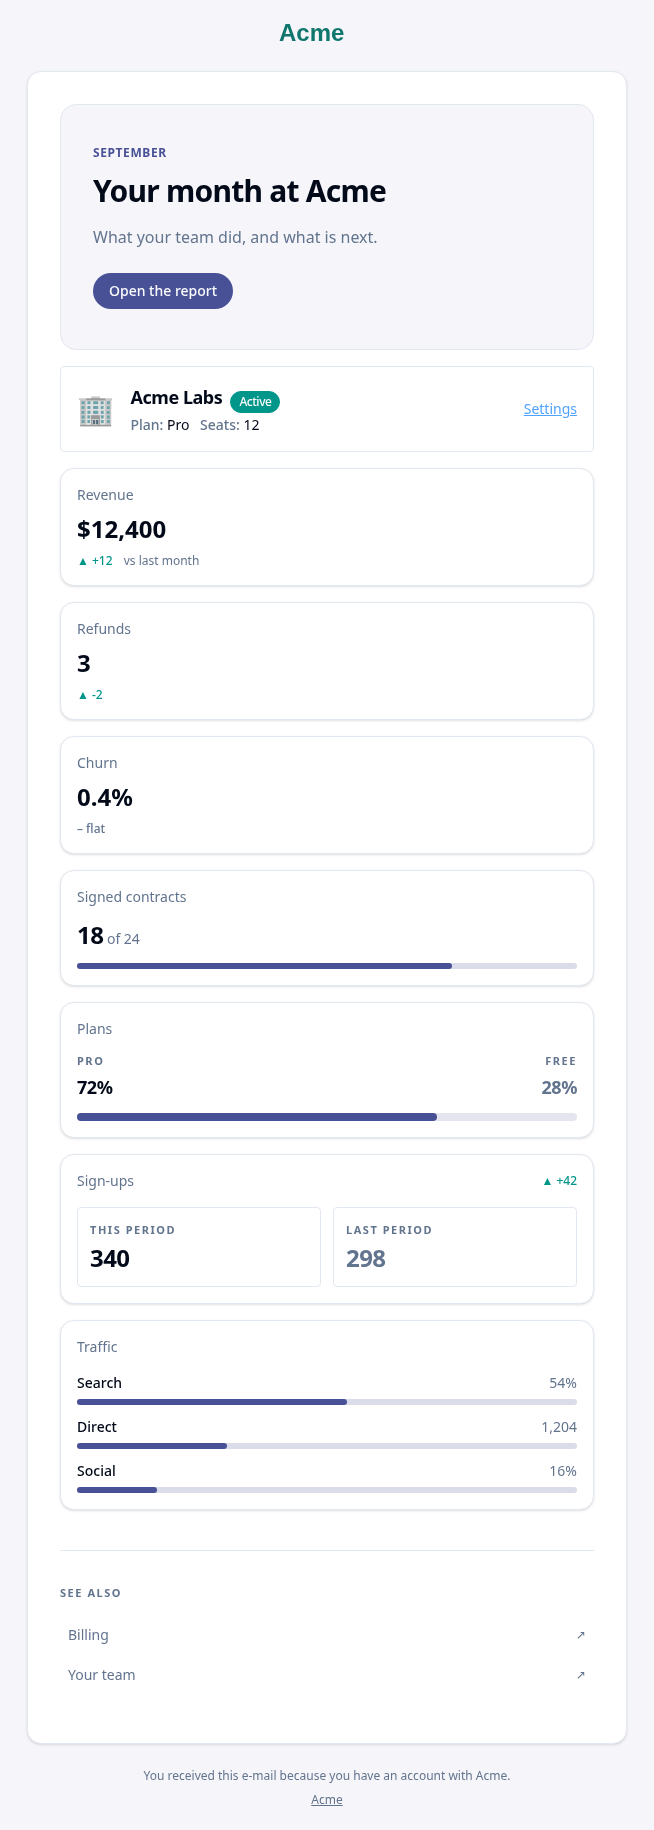
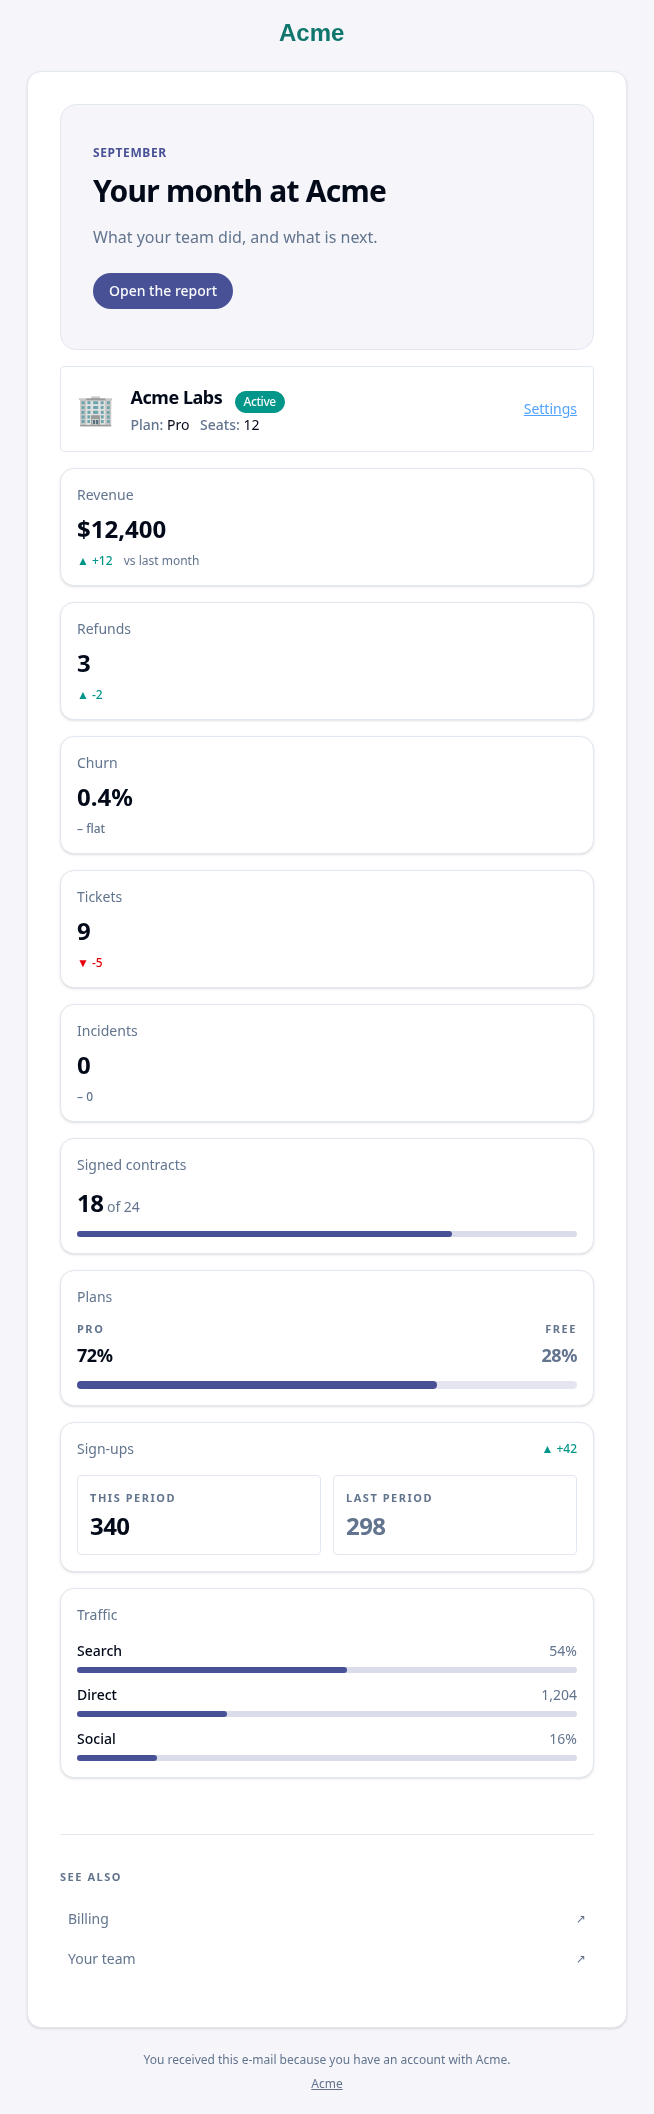
fix(mail-ui): Space an entity's title from its status, draw NxSeeAlso's line on a cell, and cover the falling and zero deltas
NxSeeAlso's line is a cell's top border and its space above padding, as
NxSeparator's, rather than a div's border and margin. The tone's arrow and
colour are a module constant. The colour guard reads every fixture e-mail.

diff --git a/packages/mail-ui/components/see-also.vue b/packages/mail-ui/components/see-also.vue
@@ -6,7 +6,9 @@ import { EYEBROW, type SeeAlsoItem, sharedMessage } from './ui';
 /**
  * material-vue's SeeAlso: a line, a small uppercase label, and links one per
  * row. Every link of an e-mail opens a browser, so each carries the arrow
- * material-vue gives an external one, as a character.
+ * material-vue gives an external one, as a character. The line is a cell's
+ * top border, and the space above it padding, which Outlook keeps and a
+ * margin not.
  */
 defineOptions({ inheritAttrs: false });
 
@@ -20,22 +22,32 @@ const heading = computed(
 const attrs = useAttrs();
 const classes = computed(() =>
 	twMerge(
-		'mb-4 mt-10 border-t [border-top-style:solid] border-border pt-8',
+		'mb-4 w-full',
 		attrs.class as string,
 	),
 );
 </script>
 
 <template>
-  <div v-if="items.length > 0" v-bind="{ ...attrs, class: undefined }" :class="classes">
-    <p :class="`${EYEBROW} mb-3`">{{ heading }}</p>
-    <table class="w-full" role="presentation" cellpadding="0" cellspacing="0">
-      <tr v-for="item in items" :key="item.id ?? item.href">
-        <td class="px-2 py-2.5">
-          <a :href="item.href" class="text-sm text-muted-foreground no-underline">{{ item.title }}</a>
-        </td>
-        <td class="w-1 px-2 text-right align-middle text-xs text-muted-foreground"><span aria-hidden="true"><span data-maizzle-html-only>&#8599;</span></span></td>
-      </tr>
-    </table>
-  </div>
+  <table v-if="items.length > 0" v-bind="{ ...attrs, class: undefined }" :class="classes" role="presentation" cellpadding="0" cellspacing="0">
+    <tr>
+      <td class="pt-10">
+        <table class="w-full" role="presentation" cellpadding="0" cellspacing="0">
+          <tr>
+            <td class="border-t [border-top-style:solid] border-border pt-8">
+              <p :class="`${EYEBROW} mb-3`">{{ heading }}</p>
+              <table class="w-full" role="presentation" cellpadding="0" cellspacing="0">
+                <tr v-for="item in items" :key="item.id ?? item.href">
+                  <td class="px-2 py-2.5">
+                    <a :href="item.href" class="text-sm text-muted-foreground no-underline">{{ item.title }}</a>
+                  </td>
+                  <td class="w-1 px-2 text-right align-middle text-xs text-muted-foreground"><span aria-hidden="true"><span data-maizzle-html-only>&#8599;</span></span></td>
+                </tr>
+              </table>
+            </td>
+          </tr>
+        </table>
+      </td>
+    </tr>
+  </table>
 </template>

diff --git a/packages/mail-ui/src/build.spec.ts b/packages/mail-ui/src/build.spec.ts
@@ -48,13 +48,24 @@ describe('a project built with the ui plugin', () => {
 	}, 120_000);
 
 	test("renders material-vue's colours as hex, with nothing a client must resolve", async () => {
-		const html = await read('dist/en/welcome.html');
-		expect(html).not.toContain('oklch(');
-		expect(html).not.toContain('var(--');
-		expect(html).not.toContain('color-mix(');
-		expect(styleOf(html, 'Open my account', 'a ')).toContain(
-			'background-color: #485096;',
-		);
+		for (const email of ['welcome', 'gallery', 'sequence', 'summary']) {
+			const html = await read(`dist/en/${email}.html`);
+			expect({ email, oklch: html.includes('oklch(') }).toEqual({
+				email,
+				oklch: false,
+			});
+			expect({ email, var: html.includes('var(--') }).toEqual({
+				email,
+				var: false,
+			});
+			expect({ email, mix: html.includes('color-mix(') }).toEqual({
+				email,
+				mix: false,
+			});
+		}
+		expect(
+			styleOf(await read('dist/en/welcome.html'), 'Open my account', 'a '),
+		).toContain('background-color: #485096;');
 	});
 
 	test('writes the types of brand for the editor, in .maizzle/ where the starter looks', async () => {
@@ -326,6 +337,16 @@ describe('a project built with the ui plugin', () => {
 		const text = await read('dist/en/summary.txt');
 		expect(text).toContain('Revenue $12,400 +12 vs last month Refunds 3 -2');
 		expect(text).not.toMatch(/[▲▼↗]/);
+	});
+
+	test('heads an e-mail with a hero, and an entity with its status and metadata', async () => {
+		const html = await read('dist/en/summary.html');
+		expect(html).toContain('text-transform: uppercase;">September</p>');
+		expect(html).toContain('>Your month at Acme</h1>');
+		expect(html).toContain('background-color: #f6f6fa;');
+		expect(await read('dist/en/summary.txt')).toContain(
+			'🏢 Acme Labs Active Plan: Pro Seats: 12 Settings',
+		);
 	});
 
 	test("writes a metric card's shared words in each locale", async () => {

diff --git a/packages/mail-ui/components/ui.ts b/packages/mail-ui/components/ui.ts
@@ -127,6 +127,13 @@ export function sharedMessage(
 /** Which way a figure moved, as material-vue's StatCard tones its delta. */
 export type DeltaTone = 'up' | 'down' | 'neutral';
 
+/** A tone's arrow and colour. */
+const DELTA_LOOK: Record<DeltaTone, { glyph: string; colour: string }> = {
+	up: { glyph: '\u25B2', colour: 'text-success' },
+	down: { glyph: '\u25BC', colour: 'text-error' },
+	neutral: { glyph: '\u2013', colour: 'text-muted-foreground' },
+};
+
 /**
  * A delta as material-vue's `formatStatDelta` writes it — `+12`, `-3`, `0` —
  * with its tone, a glyph for its arrow (an e-mail has no icon font), and its
@@ -144,12 +151,7 @@ export function deltaOf(
 				: delta < 0
 					? { label: `${delta}`, tone: tone ?? 'down' }
 					: { label: '0', tone: tone ?? 'neutral' };
-	const Look: Record<DeltaTone, { glyph: string; colour: string }> = {
-		up: { glyph: '\u25B2', colour: 'text-success' },
-		down: { glyph: '\u25BC', colour: 'text-error' },
-		neutral: { glyph: '\u2013', colour: 'text-muted-foreground' },
-	};
-	return { ...resolved, ...Look[resolved.tone] };
+	return { ...resolved, ...DELTA_LOOK[resolved.tone] };
 }
 
 /** material-vue's small uppercase label over a figure or a list. */

diff --git a/packages/mail-ui/components/entity-header.vue b/packages/mail-ui/components/entity-header.vue
@@ -35,7 +35,7 @@ const classes = computed(() =>
           <tr>
             <td v-if="slots.icon" class="w-1 whitespace-nowrap pr-4 align-middle text-3xl leading-none"><slot name="icon" /></td>
             <td class="align-middle">
-              <h2 class="m-0 text-lg font-semibold tracking-tight text-foreground">{{ title }}<span v-if="slots.status" class="pl-2 align-middle"><slot name="status" /></span></h2>
+              <h2 class="m-0 text-lg font-semibold tracking-tight text-foreground">{{ title }} <span v-if="slots.status" class="pl-2 align-middle"><slot name="status" /></span></h2>
               <NxSummaryData v-if="metadata.length > 0" inline class="mb-0 mt-0.5" :data="metadata" />
             </td>
             <td v-if="slots.actions" class="w-1 whitespace-nowrap pl-4 text-right align-middle"><slot name="actions" /></td>

diff --git a/packages/mail-ui/test/fixture/emails/summary.vue b/packages/mail-ui/test/fixture/emails/summary.vue
@@ -11,6 +11,8 @@
     <NxStatCard label="Revenue" value="$12,400" :delta="12" hint="vs last month" />
     <NxStatCard label="Refunds" value="3" :delta="-2" delta-tone="up" />
     <NxStatCard label="Churn" value="0.4%" delta="flat" />
+    <NxStatCard label="Tickets" value="9" :delta="-5" />
+    <NxStatCard label="Incidents" value="0" :delta="0" />
     <NxGoalCard label="Signed contracts" :value="18" :target="24" />
     <NxRatioCard label="Plans" :left="{ label: 'Pro', value: '72%' }" :right="{ label: 'Free', value: '28%' }" :percent="72" />
     <NxCompareCard label="Sign-ups" :current="{ value: '340' }" :previous="{ value: '298' }" :delta="42" />

diff --git a/packages/mail-ui/components/stat-card.vue b/packages/mail-ui/components/stat-card.vue
@@ -5,7 +5,8 @@ import { type DeltaTone, deltaOf } from './ui';
 /**
  * material-vue's StatCard: a label, a figure, and under it a delta and a
  * hint, in an `NxCard`. The delta's arrow is a character (an e-mail has no
- * icon font). There is no loading state: an e-mail does not load.
+ * icon font). There is no loading state: an e-mail does not load. A reader
+ * hears the delta as written, without material-vue's spoken "Up" or "Down".
  */
 const props = defineProps<{
 	label: string;

diff --git a/packages/mail-ui/components/ratio-card.vue b/packages/mail-ui/components/ratio-card.vue
@@ -3,7 +3,8 @@ import { EYEBROW } from './ui';
 
 /**
  * material-vue's RatioCard: two figures side by side, and a bar of the left
- * one's share, on a track at 15% of the primary.
+ * one's share, on a track at 15% of the primary. The fill is NxProgress's,
+ * rounded at both ends where material-vue's ends square.
  */
 defineProps<{
 	label: string;
